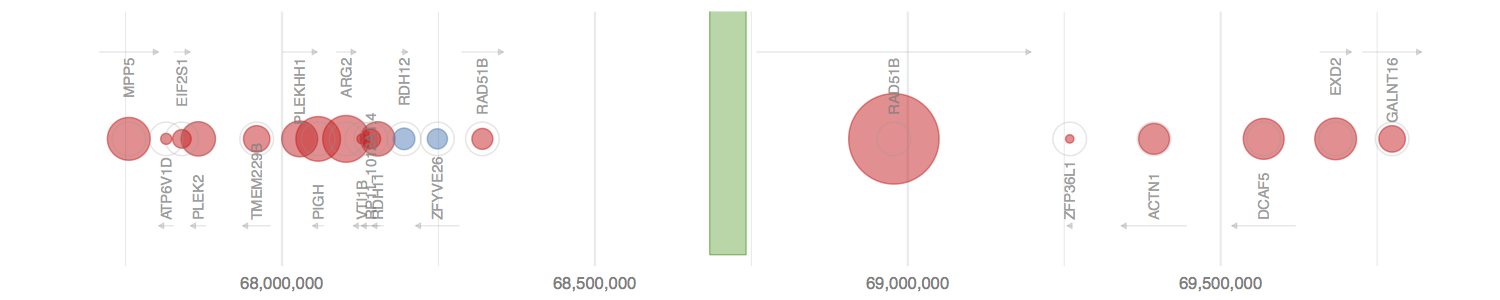
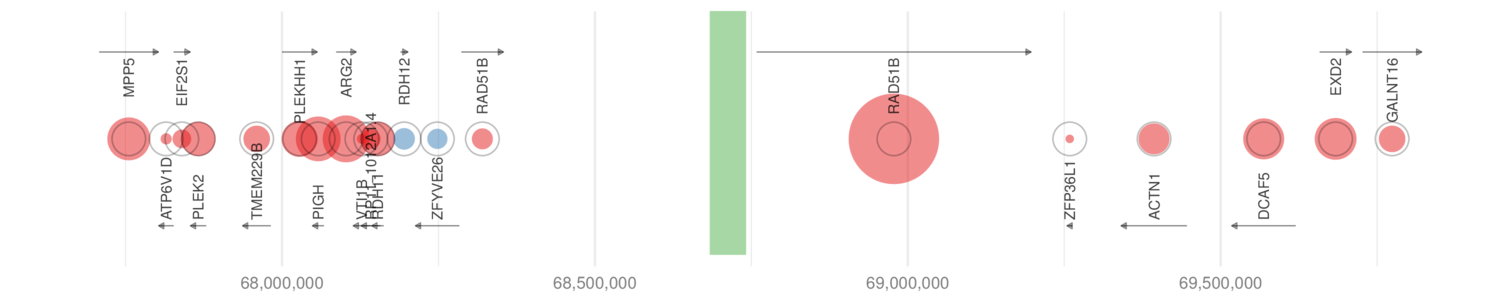
Preliminary plotting improvements
* Getting rid of outlines of geom_point and geom_rect
* Automatic creation of PNG

diff --git a/README.md b/README.md
@@ -43,6 +43,11 @@ _Mandatory in_ `Synthetic` _branch._
 
 [See instructions here](https://github.com/samtools/bcftools).  Needed for parsing 1000SV VCFs.  _Optional._ 
 
+#### ImageMagick
+
+[See instructions here](https://www.imagemagick.org/script/download.php).  Needed for converting PDF images to PNG.  _Optional._
+
+**TODO** Install this on DC2, make updated PNGs for all output
 
 ### Installing BPS Workflow
 
